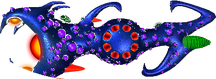
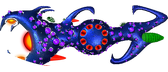
Sa-Matra sprite a bit smaller: 168px wide
Claude-Session: https://claude.ai/code/session_01Vh86rPwjuWrN4AWA7WtceP

diff --git a/tools/make_art.py b/tools/make_art.py
@@ -369,9 +369,9 @@ def build_samatra(uqm, out):
     keep = (sat > 0.35) & (mx > 30) & inside & (yy < 235)   # grey rocks and the shield bar go
     a[..., 3] = np.where(keep, a[..., 3], 0)
     body = trim(Image.fromarray(a.astype("uint8")))
-    # Three hexes wide: it is huge, and spills over its neighbours.
+    # Over twice a hex wide: it is huge, and spills over its neighbours.
     # Wesnoth centres an oversized sprite on its hex.
-    w = 216
+    w = 168
     body = body.resize((w, round(body.height * w / body.width)), Image.LANCZOS)
     canvas = Image.new("RGBA", (w, max(HEX, body.height)), (0, 0, 0, 0))
     canvas.alpha_composite(body, (0, (canvas.height - body.height) // 2))
